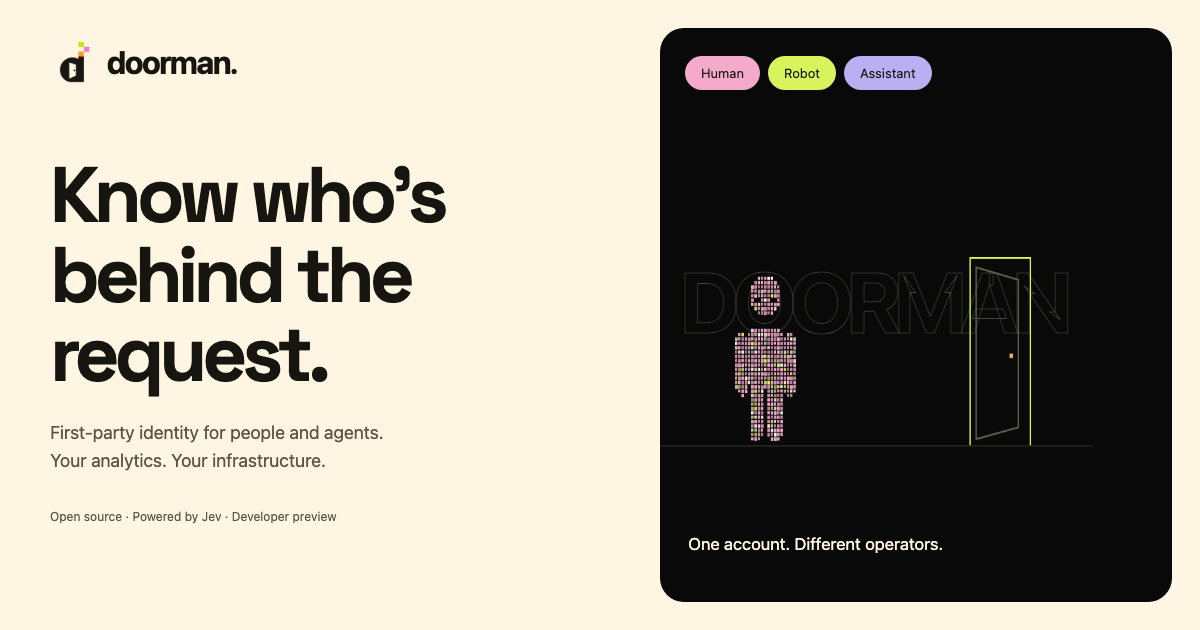
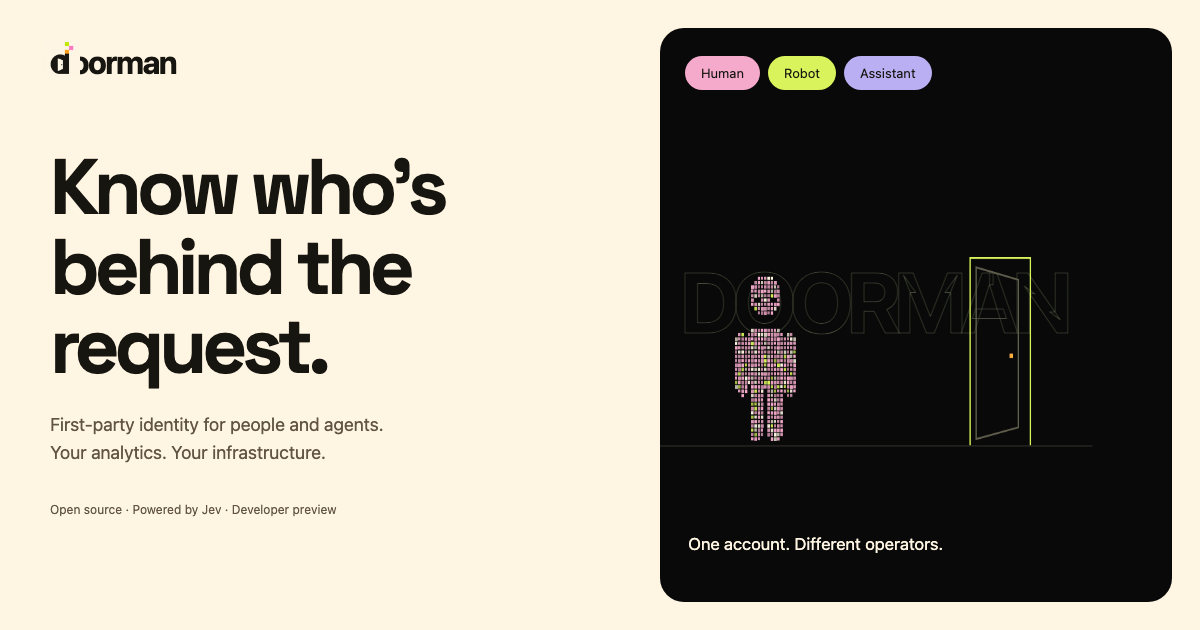
Compose the Doorman wordmark and redirect the legacy domain

diff --git a/tests/playground-live.test.ts b/tests/playground-live.test.ts
@@ -77,6 +77,22 @@ describe("public live playground", () => {
     app = createPlaygroundWorker(env);
   });
   afterAll(async () => sql.close());
+  it("redirects the legacy hostname without evaluating or collecting", async () => {
+    const response = await app.fetch(
+      new Request("https://janitor.holycoders.io/docs/api/?language=elixir"),
+    );
+    expect(response.status).toBe(308);
+    expect(response.headers.get("location")).toBe(
+      "https://doorman.holycoders.io/docs/api/?language=elixir",
+    );
+    expect(env.AI.run).not.toHaveBeenCalled();
+    expect(env.ASSETS.fetch).not.toHaveBeenCalled();
+    const current = await app.fetch(
+      new Request("https://doorman.holycoders.io/docs/api/"),
+    );
+    expect(await current.text()).toBe("static page");
+  });
+
   const request = (
     path: string,
     cookie = "",

diff --git a/site/src/styles/doorman.css b/site/src/styles/doorman.css
@@ -373,3 +373,35 @@
     scroll-behavior: auto;
   }
 }
+
+/* The door-shaped d is the first letter, aligned with the wordmark baseline. */
+.site-header .brand,
+.footer-brand .brand {
+  gap: 0;
+  align-items: baseline;
+  line-height: 1;
+}
+.site-header .brand-symbol,
+.footer-brand .brand-symbol {
+  display: inline-block;
+  position: relative;
+  width: 0.66em;
+  height: 1.13em;
+  flex-shrink: 0;
+  overflow: visible;
+  border-radius: 0;
+  vertical-align: baseline;
+}
+.brand-symbol img {
+  position: absolute;
+  width: 1.18em;
+  height: 1.18em;
+  max-width: none;
+  left: -0.23em;
+  bottom: -0.095em;
+  transform: none;
+  border-radius: 0.08em;
+}
+.brand-name {
+  display: inline-block;
+}

diff --git a/site/worker/index.ts b/site/worker/index.ts
@@ -356,8 +356,13 @@ export function createPlaygroundWorker(env: DemoEnv) {
   }
   return {
     async fetch(request: Request) {
-      if (!new URL(request.url).pathname.startsWith(PREFIX))
-        return env.ASSETS.fetch(request);
+      const url = new URL(request.url);
+      if (url.hostname === "janitor.holycoders.io") {
+        url.hostname = "doorman.holycoders.io";
+        url.protocol = "https:";
+        return Response.redirect(url.href, 308);
+      }
+      if (!url.pathname.startsWith(PREFIX)) return env.ASSETS.fetch(request);
       if (inFlight >= 16)
         return json({ error: "Live playground is busy" }, 503);
       inFlight++;

diff --git a/docs/VALIDATION.md b/docs/VALIDATION.md
@@ -4,7 +4,7 @@ Doorman’s tests check whether the implementation behaves as documented: matchi
 
 ## What is verified
 
-The current TypeScript suite passes **411 tests across 33 files**, including configurable scoring, stored operator policies, optional font/runtime/permission probes, linked API activity, the classifier, external-data projection and budgeted Jev transport checks. The offline benchmark importer/evaluator adds **eleven Python tests**, including checks that unseen labels cannot change fitting, model selection or thresholds. Strict typechecking and lint pass. Shared storage checks also passed against a real Postgres 17 server and Cloudflare's local D1 runtime. The public site has seventeen browser tests.
+The current TypeScript suite passes **412 tests across 33 files**, including configurable scoring, stored operator policies, optional font/runtime/permission probes, linked API activity, the classifier, external-data projection and budgeted Jev transport checks. The offline benchmark importer/evaluator adds **eleven Python tests**, including checks that unseen labels cannot change fitting, model selection or thresholds. Strict typechecking and lint pass. Shared storage checks also passed against a real Postgres 17 server and Cloudflare's local D1 runtime. The public site has seventeen browser tests.
 
 The current native Elixir suite passes **69 tests** against a temporary local Postgres 18.1 database, including the new bounded field validation and font/evaluator projection. Three browser-to-server/analytics integration tests and seventeen public-site browser tests pass. The local experimental probe harness runs Chromium, Firefox and WebKit on one Mac. It checks fixed local-font stability, target/keyboard separation, page-font failure handling, hidden-decoy accessibility-tree exclusion, cleanup and absent APIs. The earlier fifteen-capture screenshot experiment produced zero focus/visibility changes; the expanded run reproduced this across 60 captures and 193 additional controlled CDP captures. A separately launched no-CDP Chromium control also completed. Both instrumented and uninstrumented runs exposed zero of the sampled legacy marker names; timings overlap and do not establish a CDP detector. [Report and scope](EXPERIMENTAL-DETECTION.md).
 
@@ -93,4 +93,4 @@ The [Elixir guide](../packages/elixir/README.md) explains its Postgres test setu
 
 Doorman v0.12.0 is published as eight `@aarondovturkel/doorman-*` packages on npm and [`doorman_identity`](https://hex.pm/packages/doorman_identity) on Hex, with [HexDocs](https://hexdocs.pm/doorman_identity/0.12.0/). The repository is [Holy-Coders/doorman](https://github.com/Holy-Coders/doorman).
 
-A clean consumer installed all eight packages from npm and imported all 21 public ESM entrypoints. A separate clean Mix project fetched v0.12.0 from Hex, compiled it, loaded `Doorman`, and verified the packaged browser bundle. The release also passed 411 TypeScript tests, 17 site browser tests, strict typechecking and lint. These packaging and behavior checks do not improve or validate the experimental model's accuracy. Follow the [installation instructions](LANGUAGES.md).
+A clean consumer installed all eight packages from npm and imported all 21 public ESM entrypoints. A separate clean Mix project fetched v0.12.0 from Hex, compiled it, loaded `Doorman`, and verified the packaged browser bundle. The release also passed 412 TypeScript tests, 17 site browser tests, strict typechecking and lint. These packaging and behavior checks do not improve or validate the experimental model's accuracy. Follow the [installation instructions](LANGUAGES.md).

diff --git a/site/README.md b/site/README.md
@@ -1,6 +1,6 @@
 # Doorman public website
 
-The home, searchable docs, local examples and opt-in live playground at https://doorman.holycoders.io. Astro builds static pages. The existing `janitor-docs` Worker (its existing resource name is retained) handles `/api/playground/*` and hourly cleanup; other requests use static assets.
+The home, searchable docs, local examples and opt-in live playground at https://doorman.holycoders.io. Astro builds static pages. The existing `janitor-docs` Worker (its existing resource name is retained) handles `/api/playground/*` and hourly cleanup; other requests use static assets. The legacy `janitor.holycoders.io` domain redirects to the corresponding Doorman URL, preserving the path and query.
 
 Ordinary page views and local examples collect nothing. The activated live demo uses Doorman's collectors, HTTP handler, real matching engine, D1 storage, request controls and Jev evaluator. Its session-scoped wrapper is in `worker/`. See [playground behavior and privacy](../docs/PLAYGROUND.md).
 
